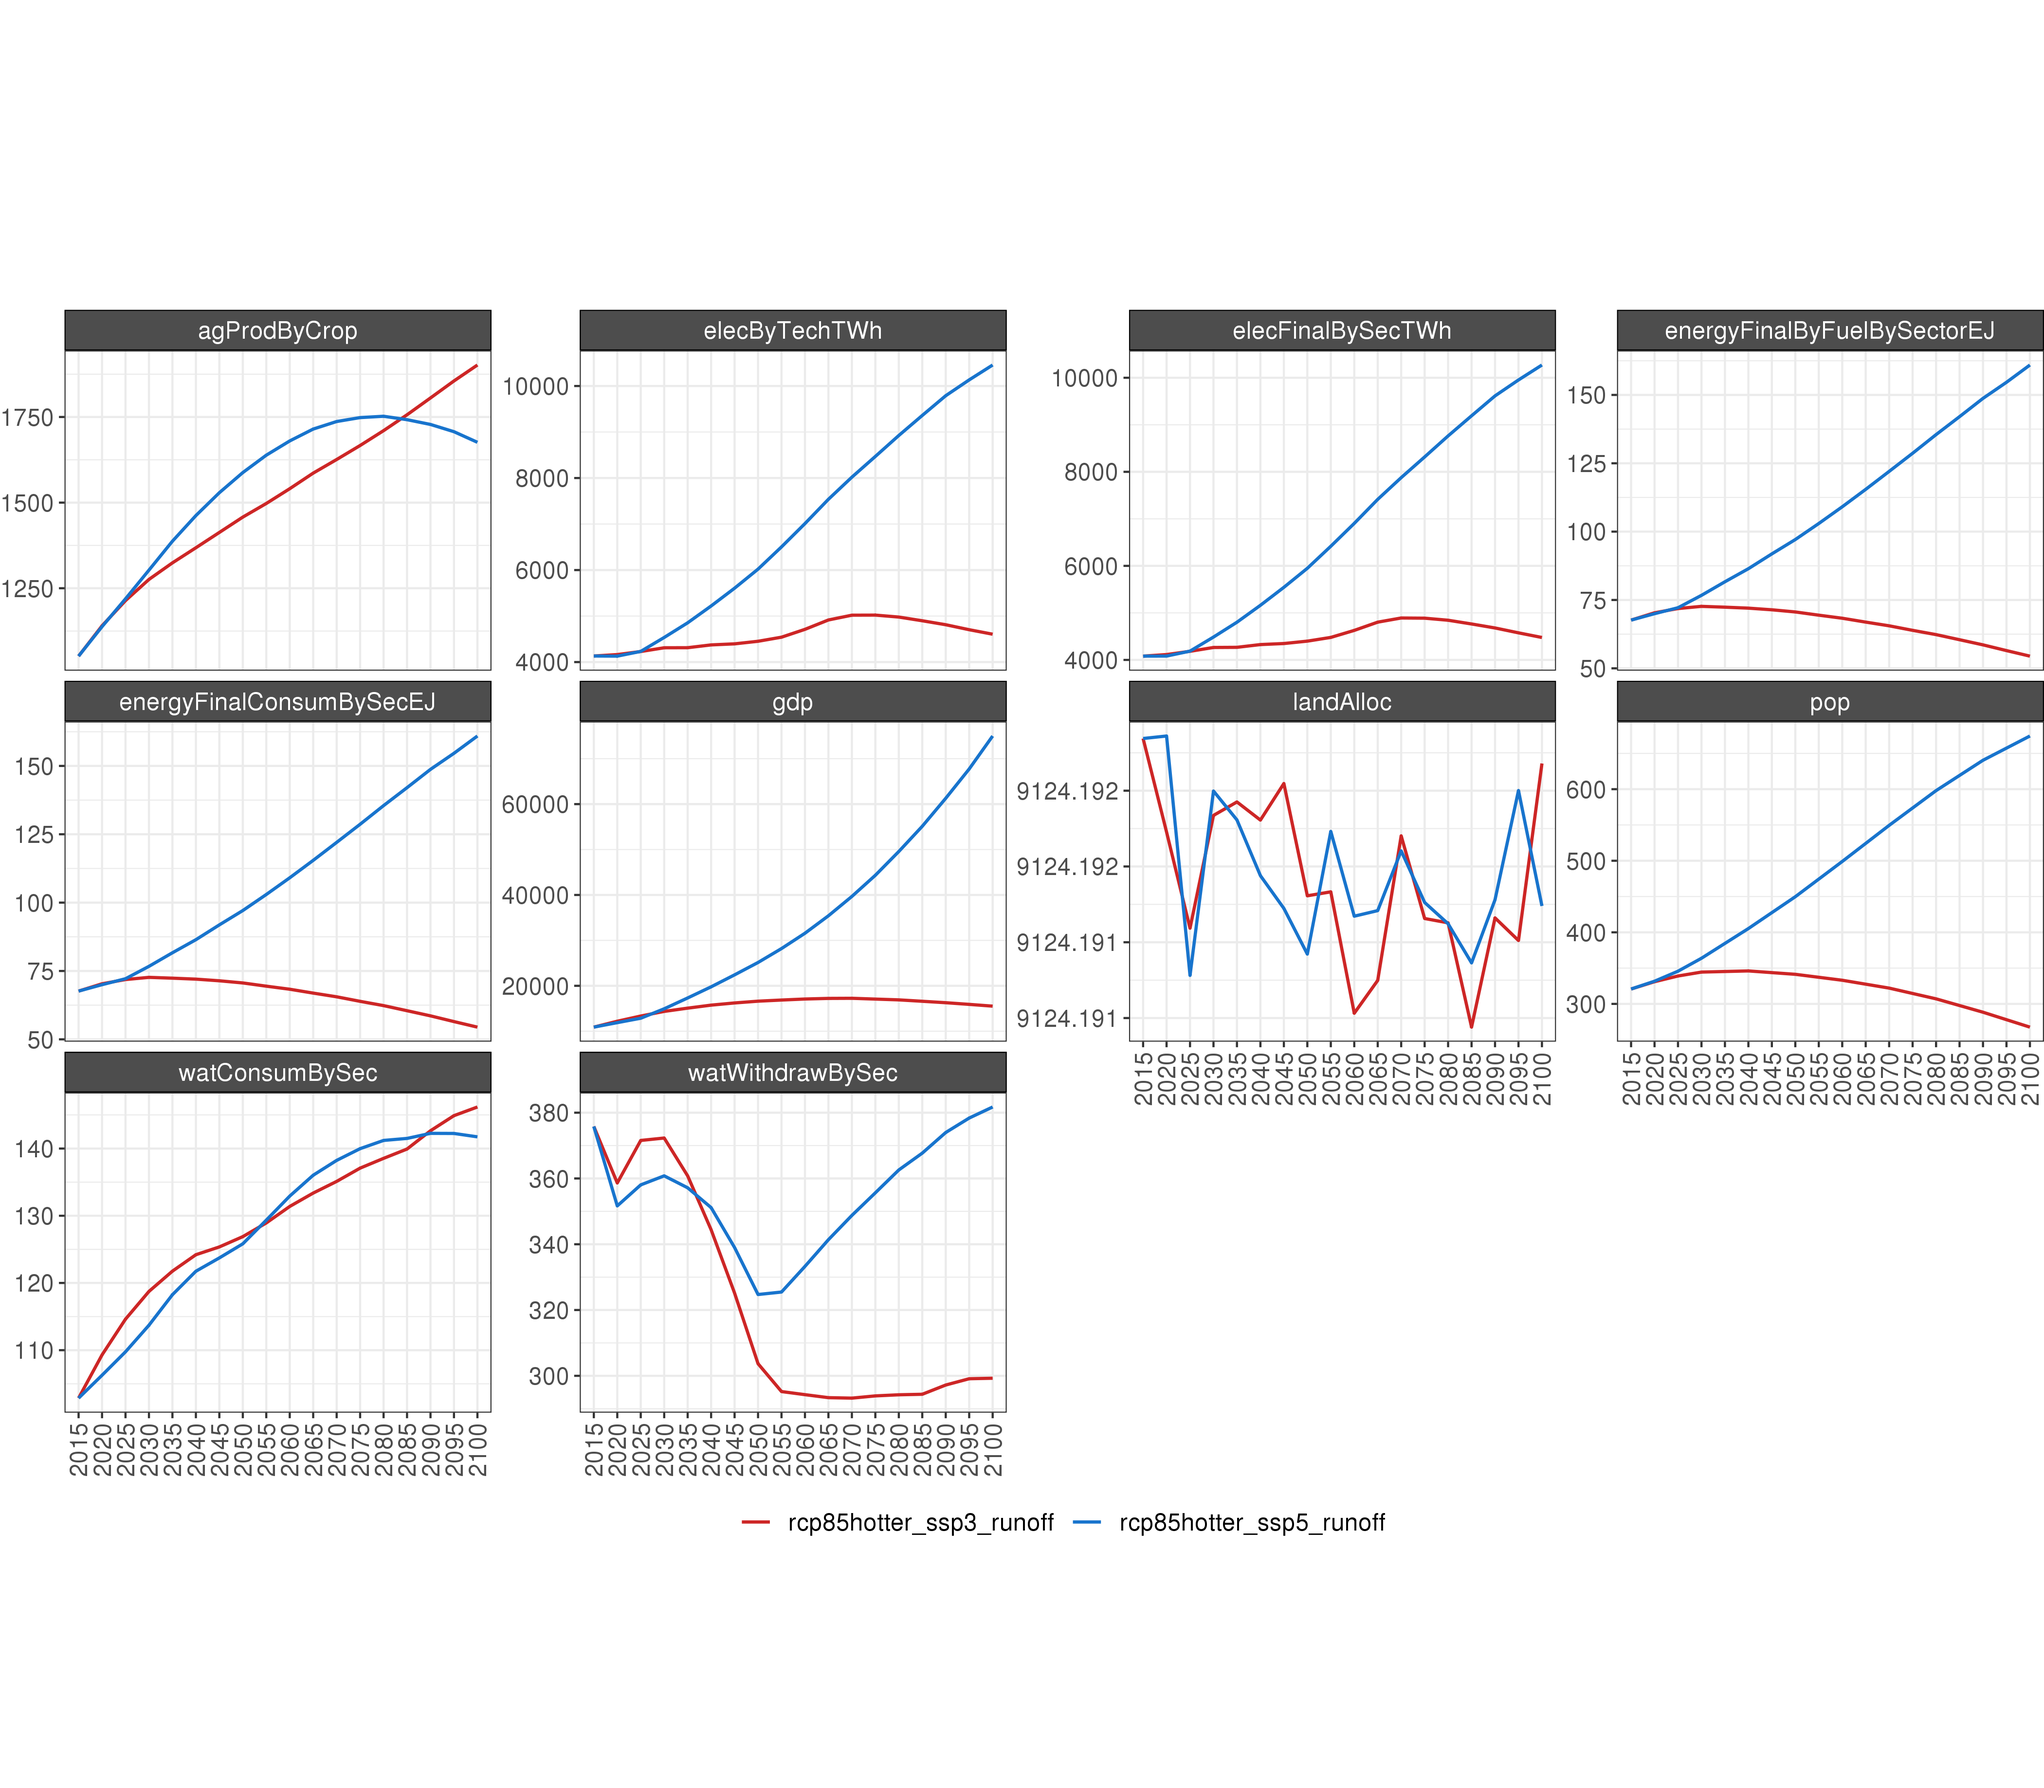
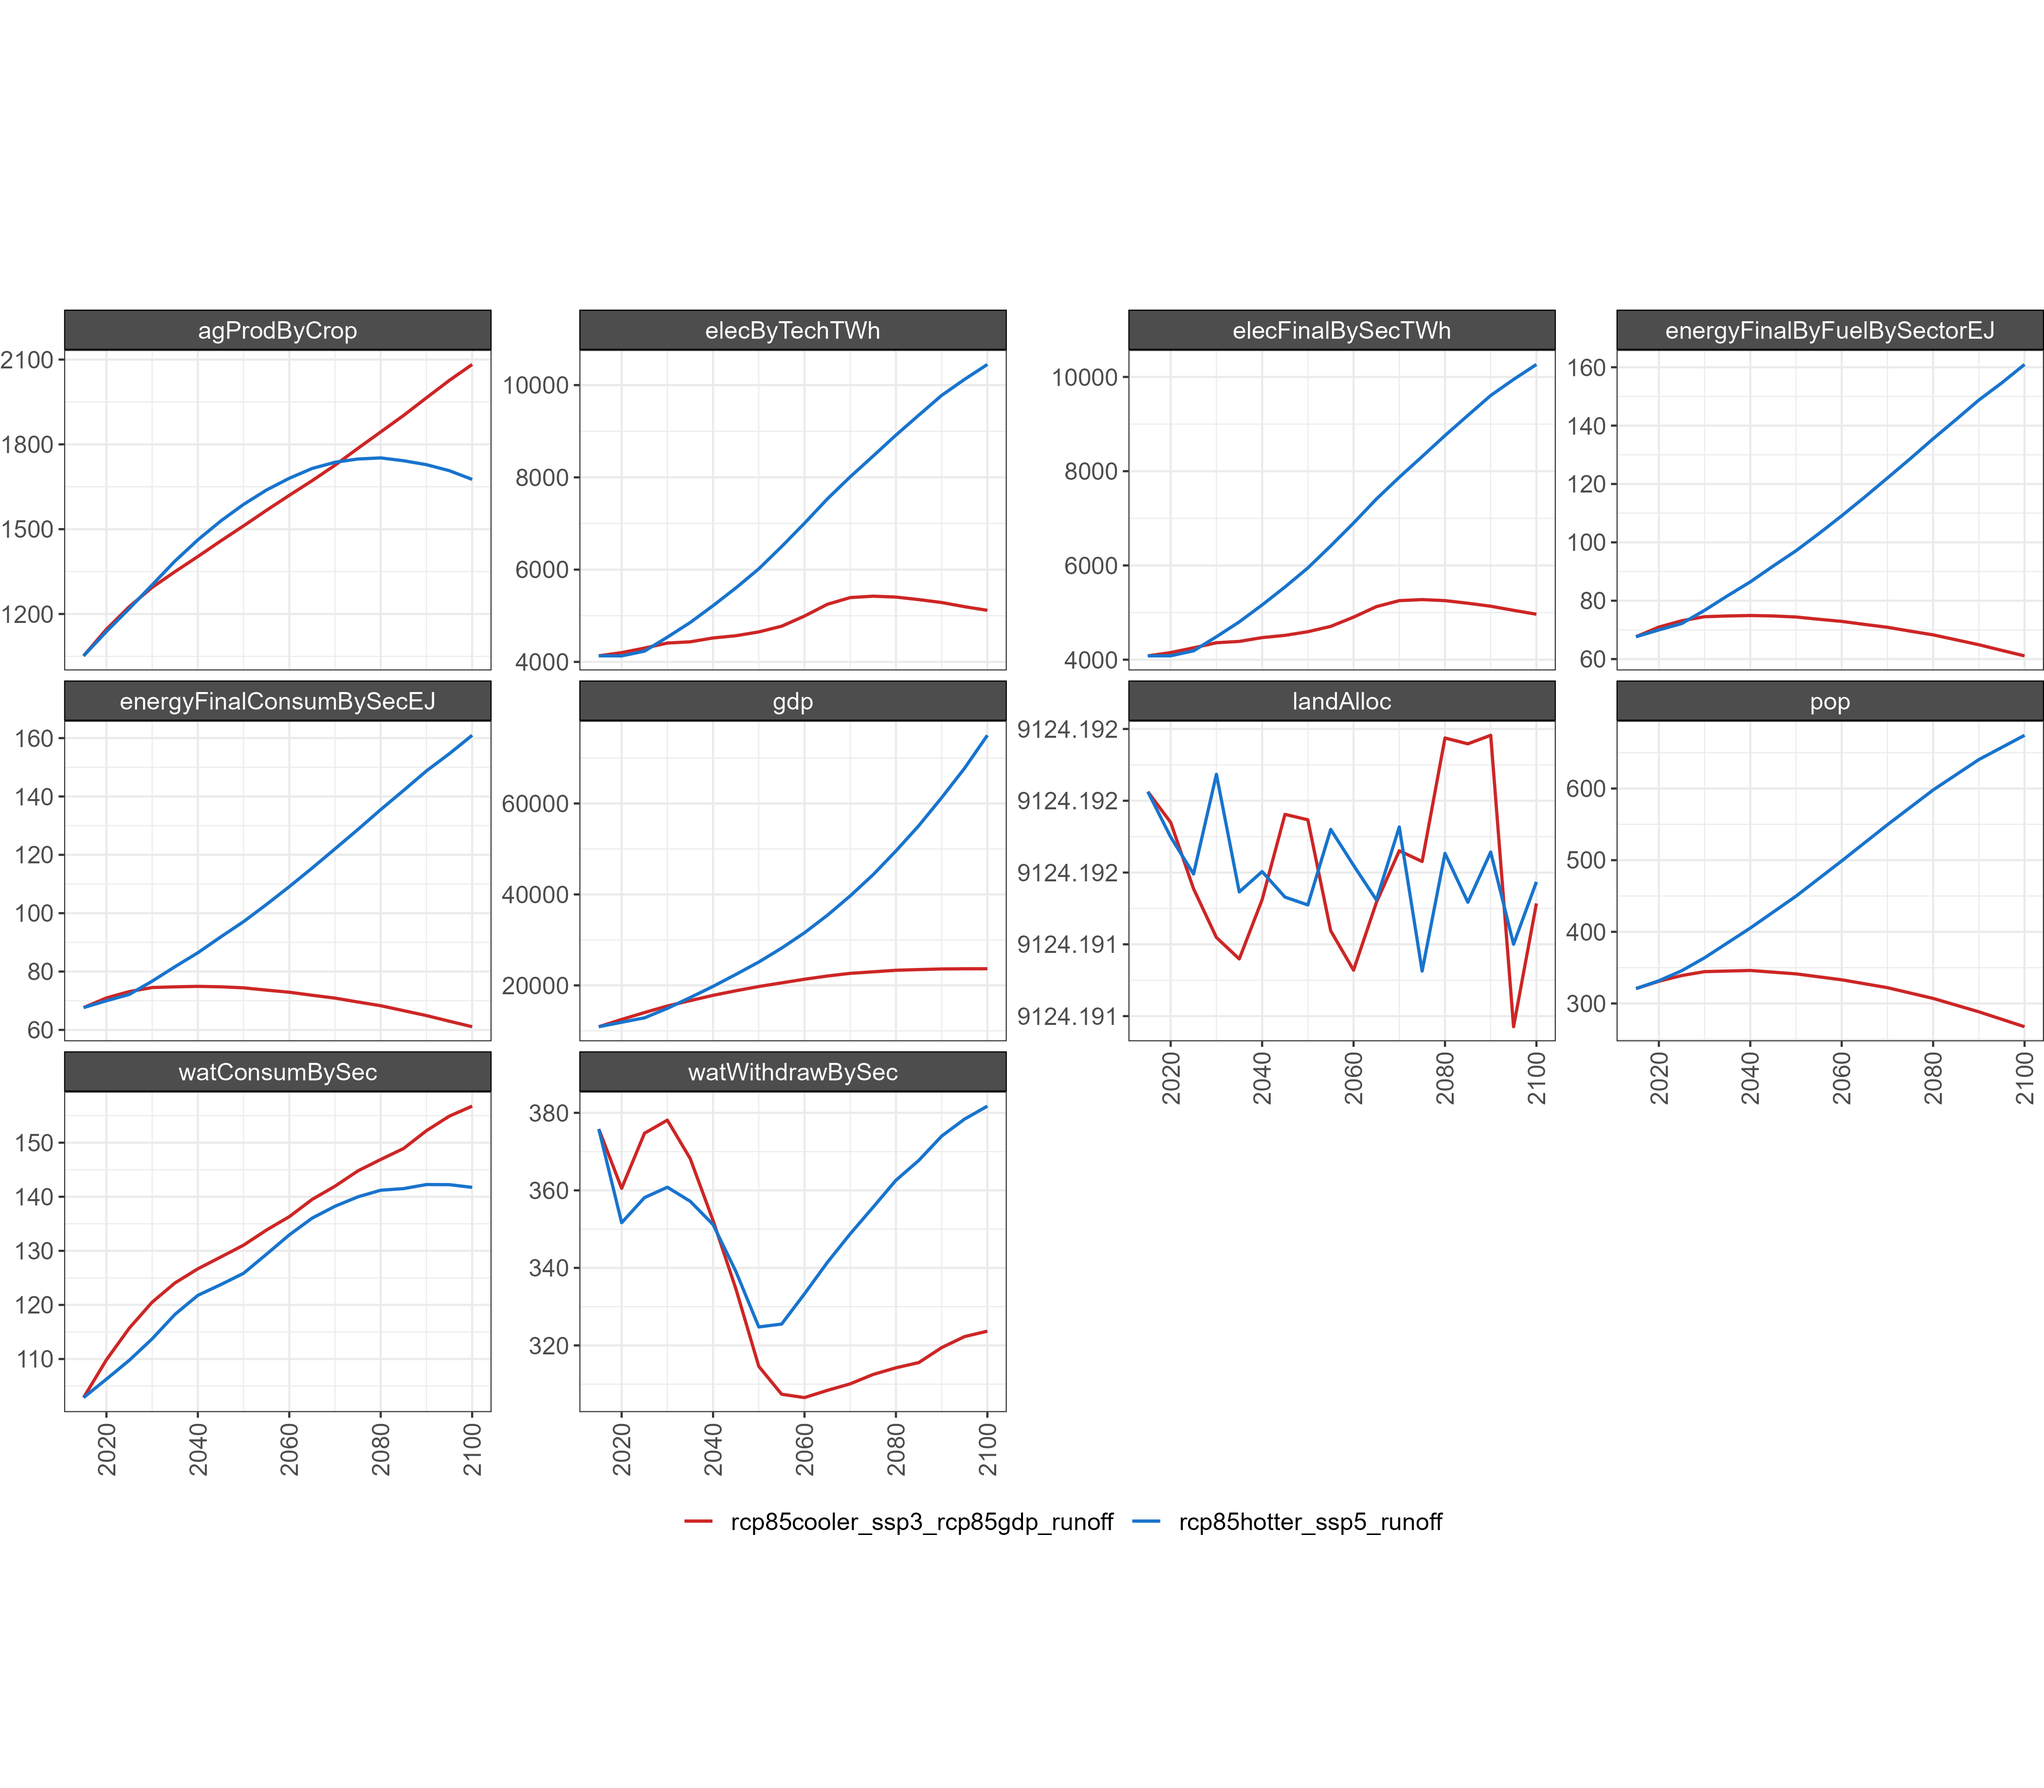
added maps to section 1c/Runoff diagnostics and updated other figures that were available so far

diff --git a/webpage/_site/metarepo.html b/webpage/_site/metarepo.html
@@ -704,6 +704,8 @@ zenodo link
 <strong>Overview of the RCP4.5 emissions pathway in GCAM.</strong>
 </p>
 </div>
+<!-- updated on 4/12/22 -->
+<!-- location for images: meta_repos/khan-etal_2022_im3gcamusa/webpage/images -->
 <p><br></p>
 <p><br></p>
 </div>
@@ -1345,10 +1347,33 @@ configuration_rcp45hotter_ssp5_runoff.xml
 <strong>Delta processing diagnostics for selected US Basins for rcp85hotter_ssp5</strong>
 </p>
 </div>
+<p><br></p>
+</div>
+<div id="maps-of-water-runoff-in-the-us" class="section level4">
+<h4>Maps of water runoff in the US</h4>
+<p><br></p>
+<div class="figure" style="text-align: center">
+<img src="images/map_param_2100_KMEANS.png" alt="**Comparison of global water runoff in 2100 (km3) under RCP8.5 hotter and RCP8.5 cooler**" width="100%" />
+<p class="caption">
+<strong>Comparison of global water runoff in 2100 (km3) under RCP8.5 hotter and RCP8.5 cooler</strong>
+</p>
+</div>
+<div class="figure" style="text-align: center">
+<img src="images/map_param_2100_KMEANS_DiffAbs.png" alt="**Absolute difference of global water runoff in 2100 (km3) under RCP8.5 hotter and RCP8.5 cooler**" width="100%" />
+<p class="caption">
+<strong>Absolute difference of global water runoff in 2100 (km3) under RCP8.5 hotter and RCP8.5 cooler</strong>
+</p>
+</div>
+<div class="figure" style="text-align: center">
+<img src="images/map_param_2100_KMEANS_DiffPrcnt.png" alt="**Relative difference of global water runoff in 2100 (km3) under RCP8.5 hotter and RCP8.5 cooler**" width="100%" />
+<p class="caption">
+<strong>Relative difference of global water runoff in 2100 (km3) under RCP8.5 hotter and RCP8.5 cooler</strong>
+</p>
 </div>
 </div>
-<div id="gcam-rcp85hotter_ssp35_runoff" class="section level3 tabset tabset-pills">
-<h3 class="tabset tabset-pills">GCAM rcp85hotter_ssp35_runoff</h3>
+</div>
+<div id="gcam-rcp85hotter_ssp3_runoff" class="section level3 tabset tabset-pills">
+<h3 class="tabset tabset-pills">GCAM rcp85hotter_ssp3_runoff</h3>
 <div id="summary-2" class="section level4">
 <h4>Summary</h4>
 <p><br></p>
@@ -1358,6 +1383,7 @@ configuration_rcp45hotter_ssp5_runoff.xml
 <strong>Comparison of GCAM outputs global runoff for 5 GCMS </strong>
 </p>
 </div>
+<!--updated on 4/12/2022-->
 </div>
 <div id="socioeconomics-2" class="section level4">
 <h4>Socioeconomics</h4>
@@ -1368,6 +1394,7 @@ configuration_rcp45hotter_ssp5_runoff.xml
 <strong>Comparison of GCAM socioeconomic outputs</strong>
 </p>
 </div>
+<!--updated on 4/12/2022-->
 <p><br></p>
 <div class="figure" style="text-align: center">
 <img src="images/chart_param_diff_percent_socioecon_im3_runoff.png" alt="**Comparison of GCAM socioeconomic outputs % Diff**" width="100%" />
@@ -1455,30 +1482,31 @@ configuration_rcp45hotter_ssp5_runoff.xml
 <h4>Emissions</h4>
 <p><br></p>
 <div class="figure" style="text-align: center">
-<img src="images/compareCO2GlobalCumRCP_im3_runoff.png" alt="**Comparison of GCAM emissions outputs for 5 GCMS **" width="100%" />
+<img src="images/compareCO2GlobalCumRCP_im3_runoff_ssp3_rcp85gdp.png" alt="**Cumulative global carbon emission pathways under different combinations of SSP3/SSP5 and RCP4.5/RCP8.5 **" width="100%" />
 <p class="caption">
-<strong>Comparison of GCAM emissions outputs for 5 GCMS </strong>
+<strong>Cumulative global carbon emission pathways under different combinations of SSP3/SSP5 and RCP4.5/RCP8.5 </strong>
+</p>
+</div>
+<!-- updated on 4/12/22 -->
+<p><br></p>
+<div class="figure" style="text-align: center">
+<img src="images/compareCO2USA_im3_runoff.png" alt="**Annual US carbon emissions under different combinations of SSP3/SSP5 and RCP4.5/RCP8.5 **" width="100%" />
+<p class="caption">
+<strong>Annual US carbon emissions under different combinations of SSP3/SSP5 and RCP4.5/RCP8.5 </strong>
 </p>
 </div>
 <p><br></p>
 <div class="figure" style="text-align: center">
-<img src="images/compareCO2USA_im3_runoff.png" alt="**Comparison of GCAM emissions outputs for 5 GCMS **" width="100%" />
+<img src="images/compareNonCO2global_im3_runoff.png" alt="**Annual global non-CO~2~ emissions under different combinations of SSP3/SSP5 and RCP4.5/RCP8.5 **" width="100%" />
 <p class="caption">
-<strong>Comparison of GCAM emissions outputs for 5 GCMS </strong>
+<strong>Annual global non-CO<sub>2</sub> emissions under different combinations of SSP3/SSP5 and RCP4.5/RCP8.5 </strong>
 </p>
 </div>
 <p><br></p>
 <div class="figure" style="text-align: center">
-<img src="images/compareNonCO2global_im3_runoff.png" alt="**Comparison of GCAM emissions outputs for 5 GCMS **" width="100%" />
+<img src="images/compareNonCO2USA_im3_runoff.png" alt="**Annual US non-CO~2~ emissions under different combinations of SSP3/SSP5 and RCP4.5/RCP8.5 **" width="100%" />
 <p class="caption">
-<strong>Comparison of GCAM emissions outputs for 5 GCMS </strong>
-</p>
-</div>
-<p><br></p>
-<div class="figure" style="text-align: center">
-<img src="images/compareNonCO2USA_im3_runoff.png" alt="**Comparison of GCAM emissions outputs for 5 GCMS **" width="100%" />
-<p class="caption">
-<strong>Comparison of GCAM emissions outputs for 5 GCMS </strong>
+<strong>Annual US non-CO<sub>2</sub> emissions under different combinations of SSP3/SSP5 and RCP4.5/RCP8.5 </strong>
 </p>
 </div>
 <!-------------------------->
